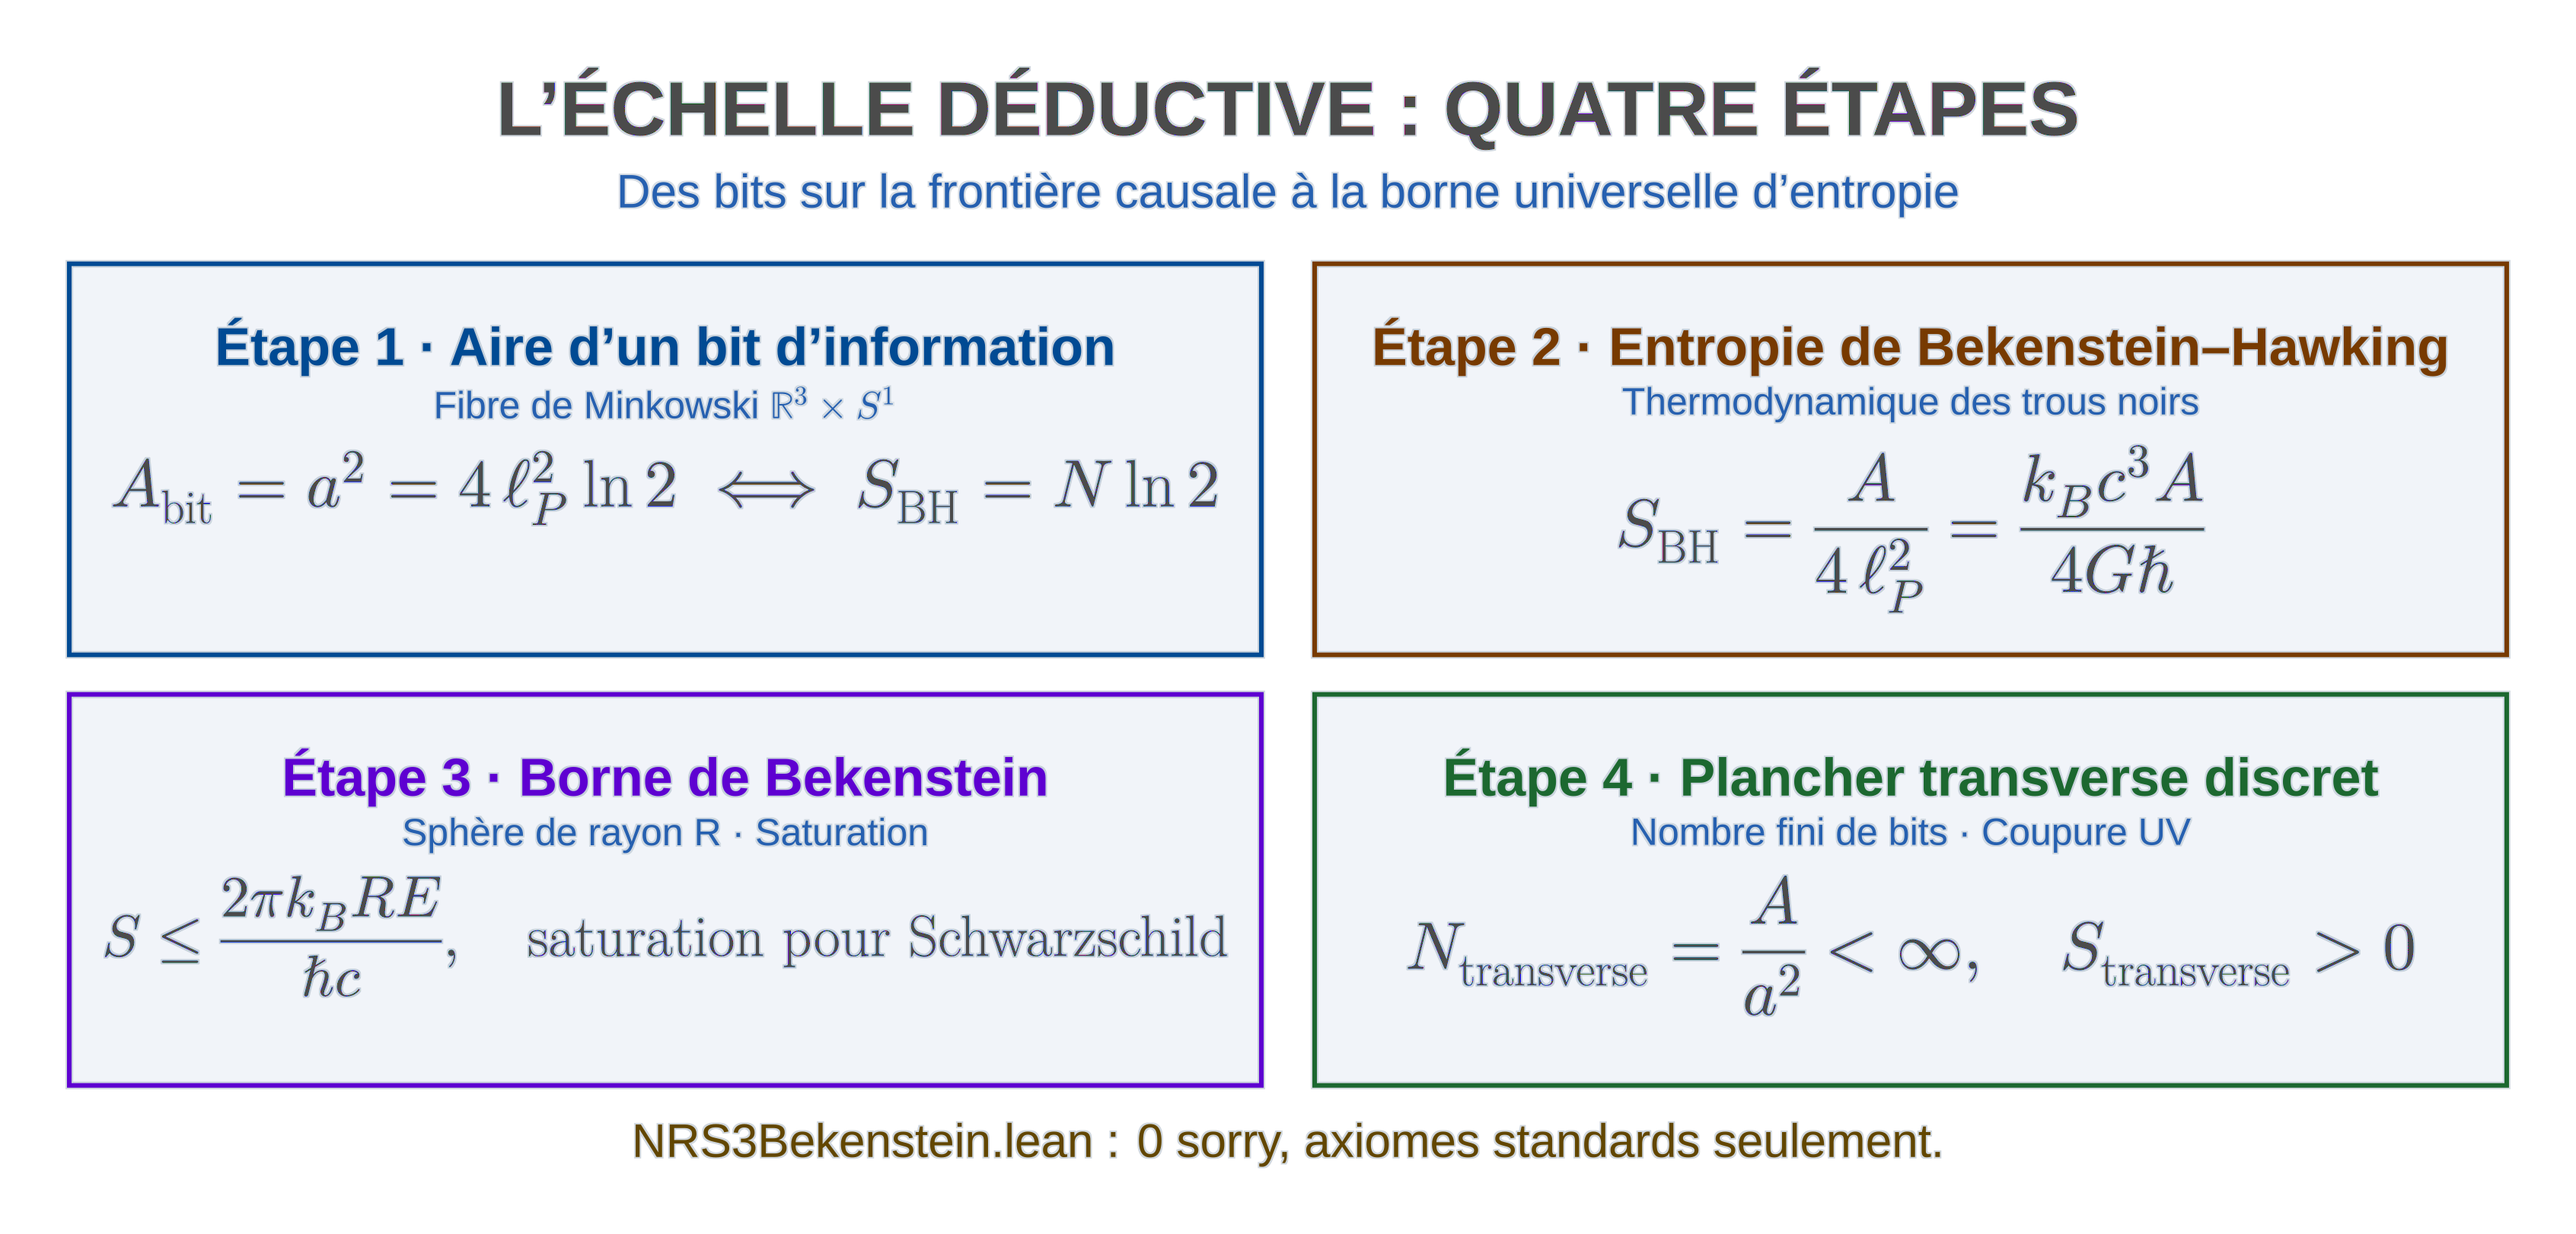
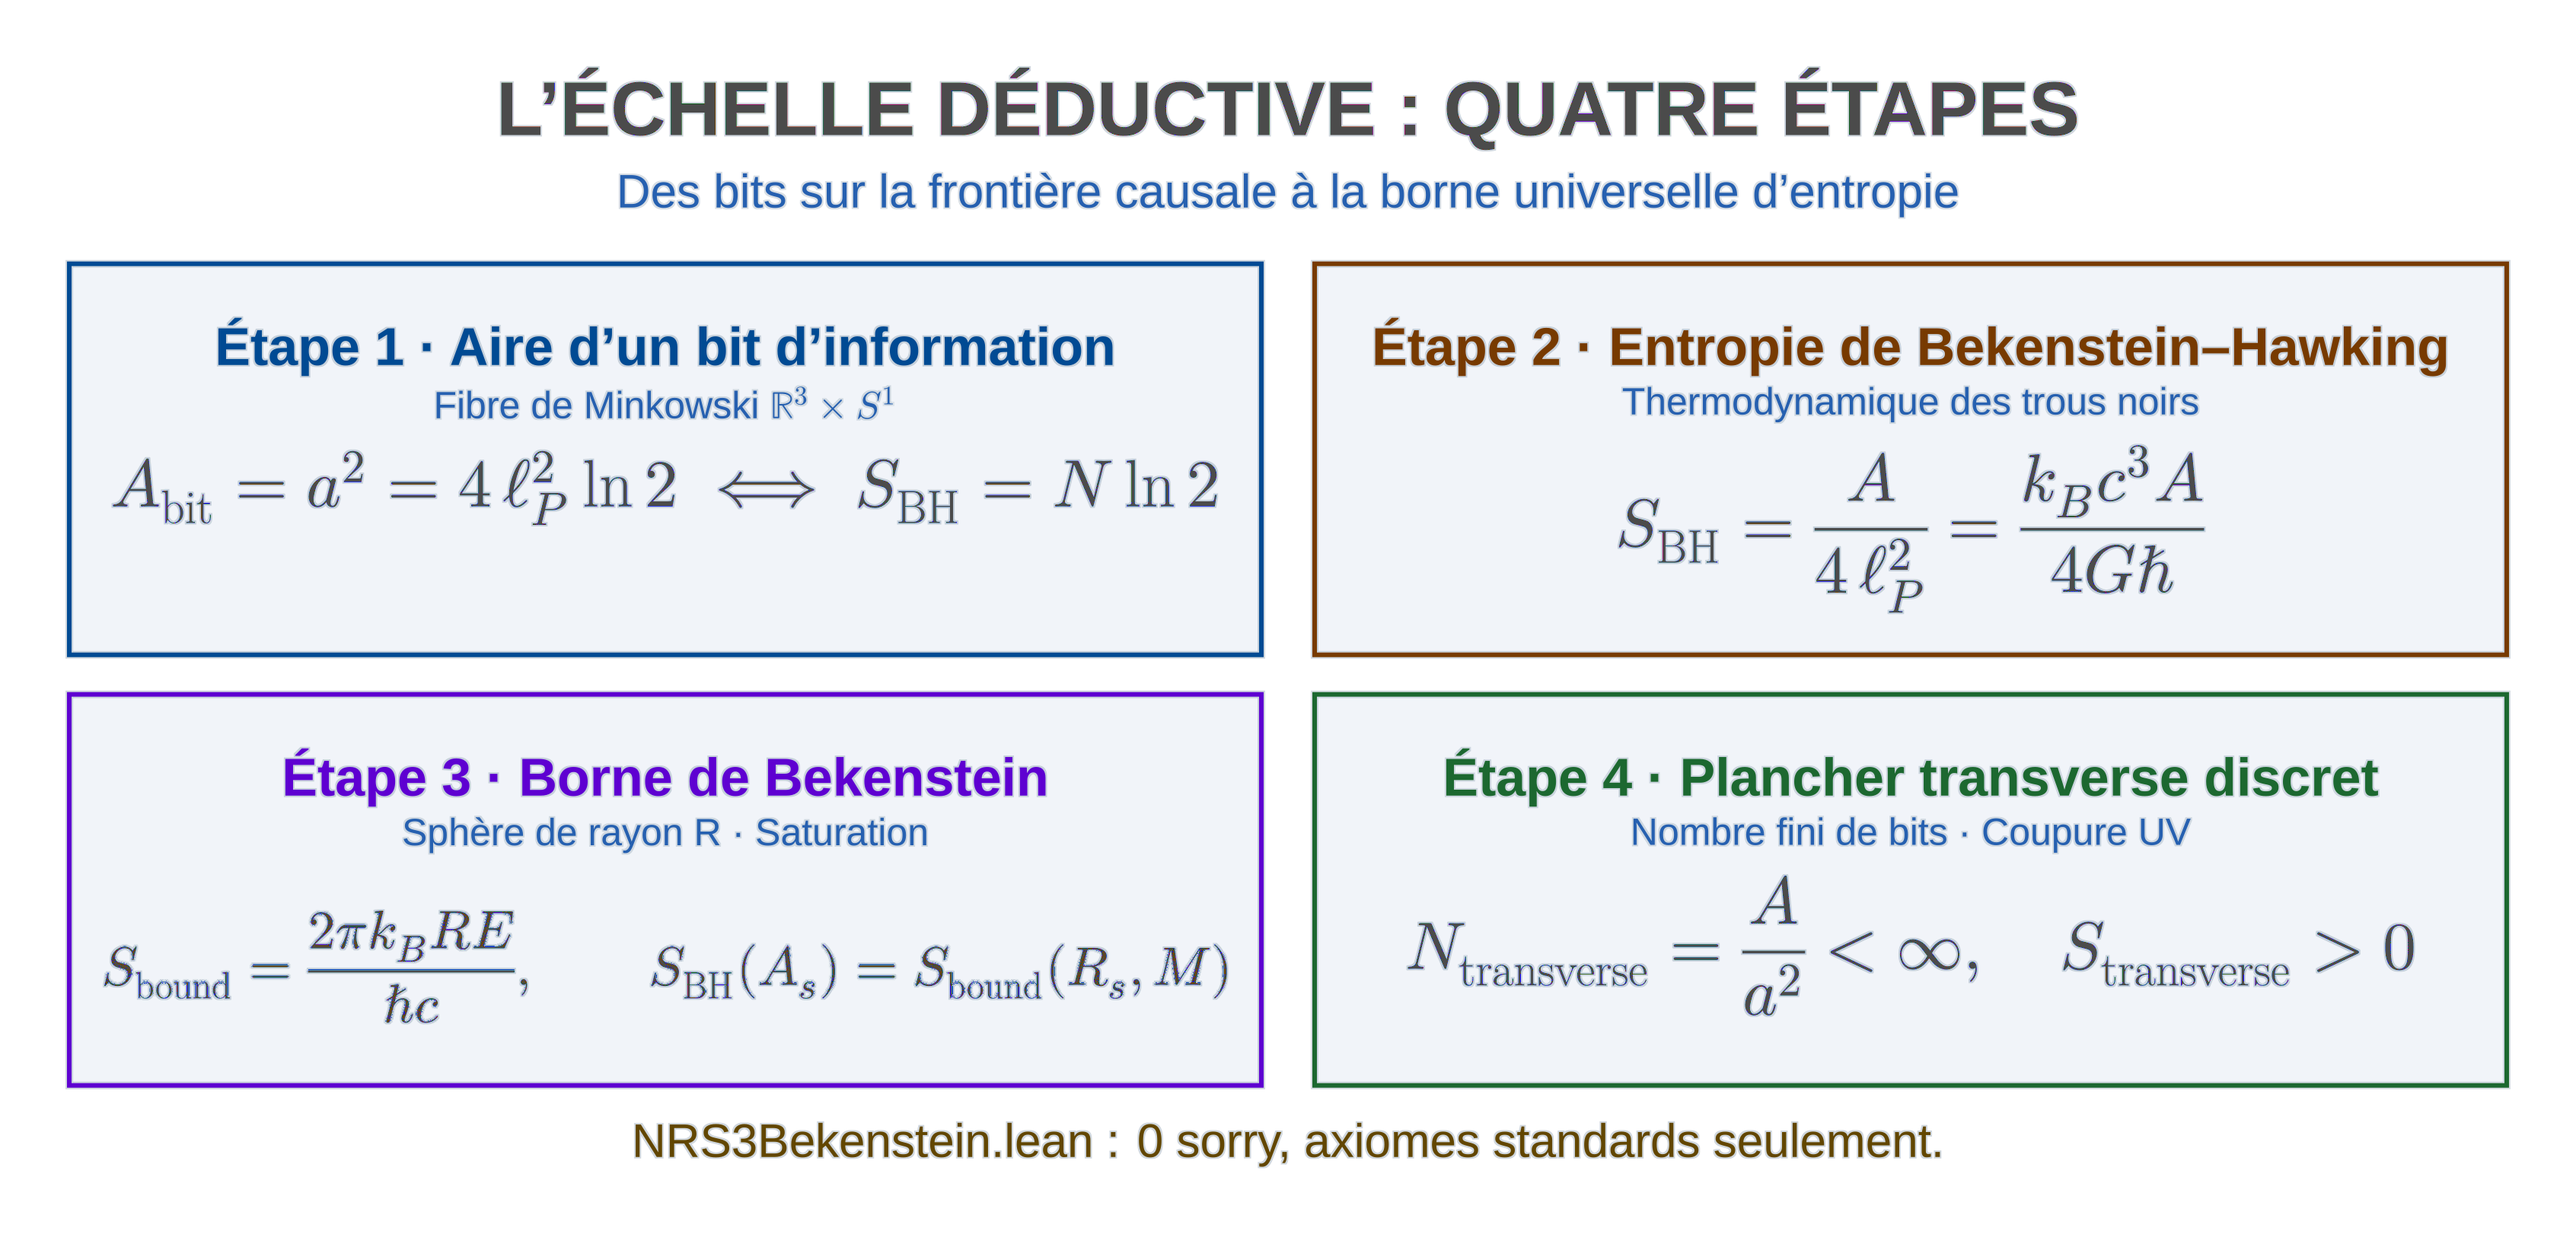
docs(readme): S_bound et la saturation de Schwarzschild ; S ≤ S_bound est l'énoncé de Bekenstein, non démontré ici

Changed region(s): [[0.031, 0.709, 0.4965, 0.8323]]

diff --git a/README.md b/README.md
@@ -135,7 +135,7 @@ Notre formalisation démontre que ce résultat découle de la géométrie contin
 
 ### Étape 3 : Borne universelle d'entropie de Bekenstein
 
-> **Proposition 3.1 (Saturation pour les trous noirs de Schwarzschild).** Pour tout système physique confiné dans une région sphérique, l'entropie maximale vérifie la borne universelle de Bekenstein. Les trous noirs de Schwarzschild saturent exactement cette borne.
+> **Proposition 3.1 (Saturation pour les trous noirs de Schwarzschild).** La borne universelle de Bekenstein (1981) pour une région de rayon R et de masse M est S_bound = 2π R M / ℓ_P² ; le module la définit (l'inégalité S ≤ S_bound pour tout système est l'énoncé de Bekenstein, non démontré ici) et démontre que le trou noir de Schwarzschild la sature exactement : S_BH(A_s) = S_bound(R_s, M).
 
 <div align="center"><picture><source media="(prefers-color-scheme: dark)" srcset="assets/oscuro/plaque_bekenstein_etape3.png"><img src="assets/claro/plaque_bekenstein_etape3.png" alt="Étape 3 : Borne universelle d'entropie de Bekenstein" width="860"></picture></div>
 
